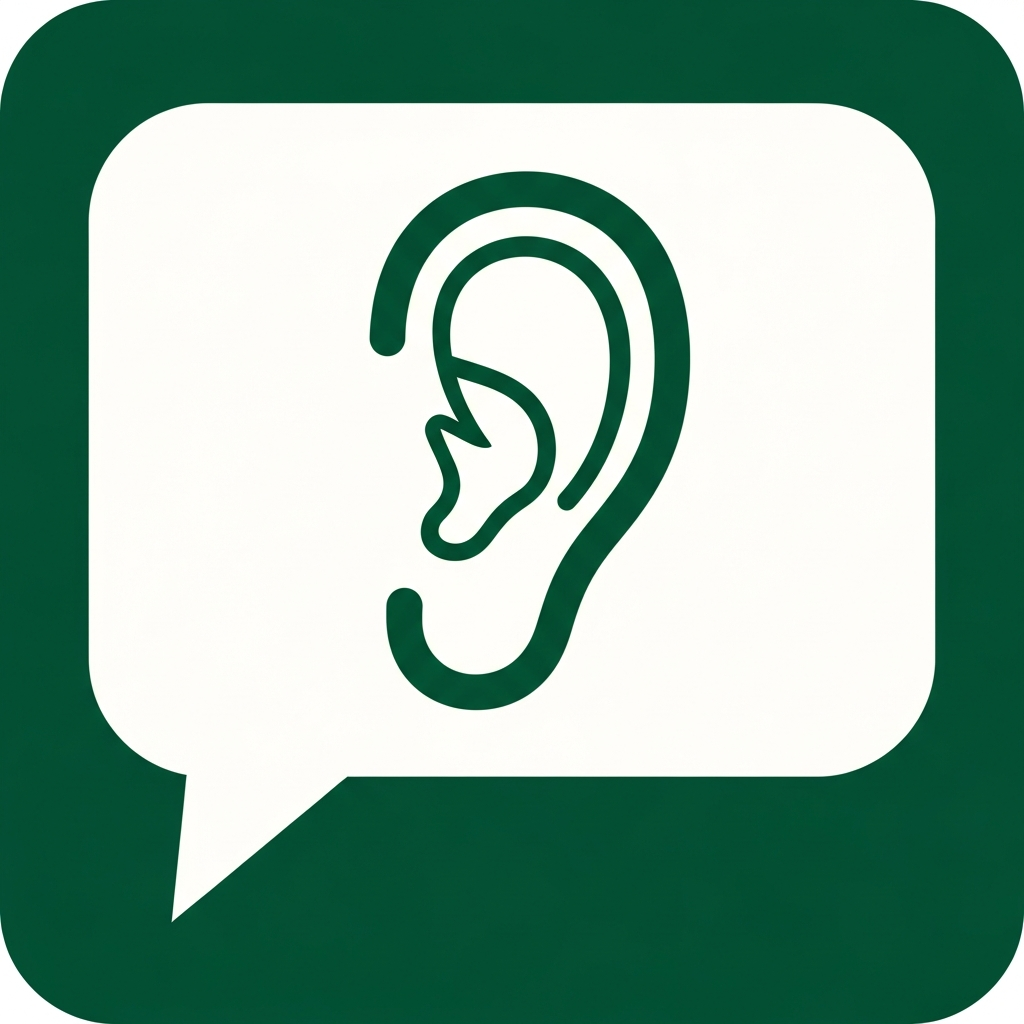
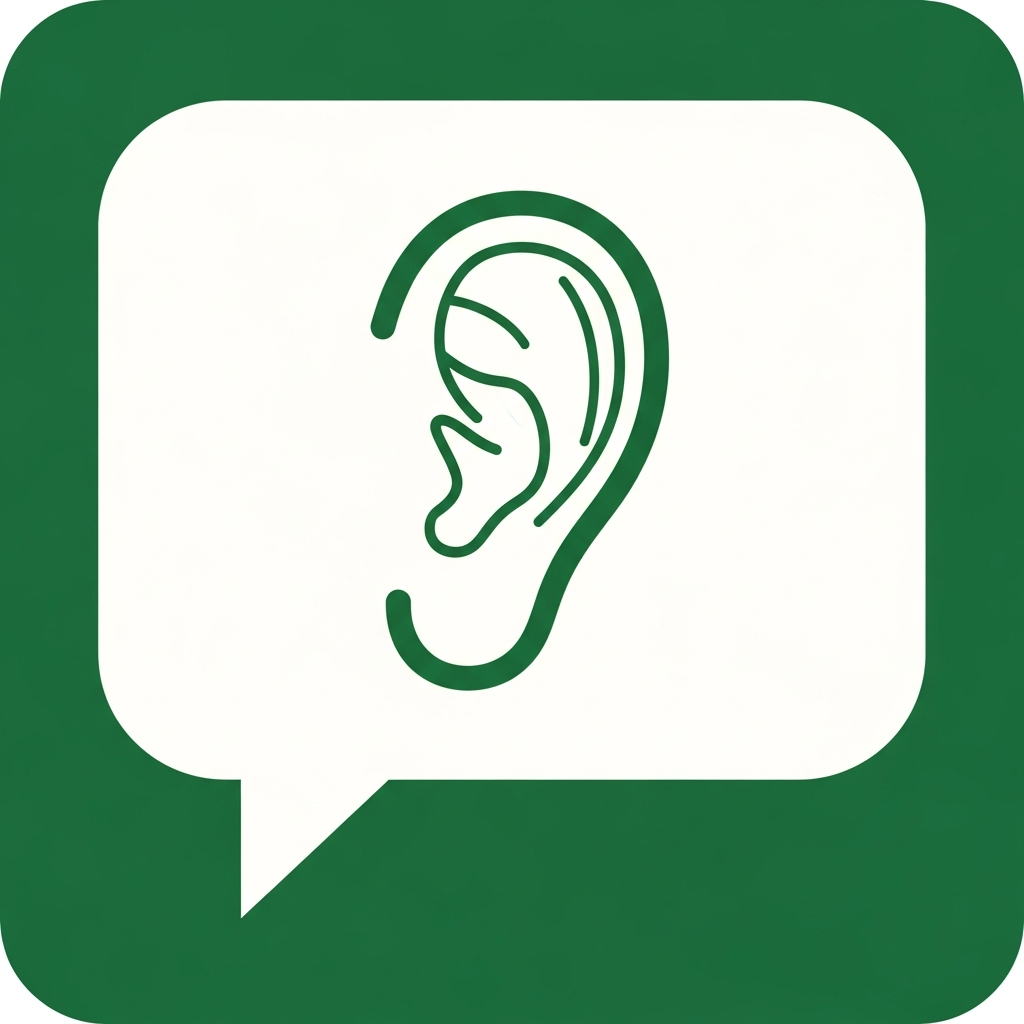
Fix text display issues and improve speech recognition capabilities
Update app version to 1.0.3 to clear cache, explicitly load vector icon fonts in _layout.tsx, and add microphone permission request in index.tsx. Regenerate icon.png and splash-icon.png.

Replit-Commit-Author: Agent
Replit-Commit-Session-Id: b7ebbd82-d3a0-4386-90e5-635705c79ef3
Replit-Commit-Checkpoint-Type: full_checkpoint
Replit-Commit-Event-Id: c5cab796-6235-47fc-92f0-f77254a9b34c
Replit-Commit-Screenshot-Url: https://storage.googleapis.com/screenshot-production-us-central1/3533e259-076b-466e-9c04-d0484e5416cf/b7ebbd82-d3a0-4386-90e5-635705c79ef3/P4KiH9x
Replit-Helium-Checkpoint-Created: true

diff --git a/artifacts/caption-bridge/app/_layout.tsx b/artifacts/caption-bridge/app/_layout.tsx
@@ -10,6 +10,11 @@ import {
   Inter_700Bold,
   useFonts,
 } from "@expo-google-fonts/inter";
+// ベクターアイコンのフォントファイルを明示的に読み込む
+// これを忘れると ⊠（豆腐文字）が表示される
+import Feather from "@expo/vector-icons/Feather";
+import Ionicons from "@expo/vector-icons/Ionicons";
+import MaterialCommunityIcons from "@expo/vector-icons/MaterialCommunityIcons";
 import { QueryClient, QueryClientProvider } from "@tanstack/react-query";
 import { Stack } from "expo-router";
 import * as SplashScreen from "expo-splash-screen";
@@ -28,11 +33,15 @@ SplashScreen.preventAutoHideAsync();
 const queryClient = new QueryClient();
 
 export default function RootLayout() {
-  // Google Fontsの読み込み（Inter書体）
+  // Google Fonts（Inter書体）とベクターアイコンフォントを同時に読み込む
+  // @expo/vector-icons の各フォントファイルを .font プロパティで指定する
   const [fontsLoaded, fontError] = useFonts({
-    Inter_400Regular,   // 通常テキスト
-    Inter_600SemiBold,  // 強調テキスト
-    Inter_700Bold,      // タイトル・太字テキスト
+    Inter_400Regular,
+    Inter_600SemiBold,
+    Inter_700Bold,
+    ...Ionicons.font,                // Ioniconsアイコンフォント
+    ...Feather.font,                 // Featherアイコンフォント
+    ...MaterialCommunityIcons.font,  // MaterialCommunityIconsフォント
   });
 
   // フォント読み込み完了後にスプラッシュ画面を隠す

diff --git a/artifacts/caption-bridge/app/index.tsx b/artifacts/caption-bridge/app/index.tsx
@@ -9,6 +9,9 @@ import { Feather, Ionicons, MaterialCommunityIcons } from "@expo/vector-icons";
 import * as Clipboard from "expo-clipboard";
 import * as Haptics from "expo-haptics";
 import { router } from "expo-router";
+// Androidのネイティブマイク権限（RECORD_AUDIO）を先にリクエストするために使用する
+// WebViewのWeb Speech APIはこの権限が必要
+import { Audio } from "expo-av";
 import React, { useCallback, useEffect, useRef, useState } from "react";
 import {
   Animated,
@@ -179,6 +182,22 @@ export default function MainScreen() {
       setError(null);
       setInterimText("");
       setStatusMessage("認識中...");
+
+      // AndroidのOSレベルのマイク権限（RECORD_AUDIO）を先にリクエストする
+      // これをしないとWebViewのWeb Speech APIが "not-allowed" エラーになる
+      if (Platform.OS !== "web") {
+        try {
+          const { status } = await Audio.requestPermissionsAsync();
+          if (status !== "granted") {
+            setError("⚙ 設定 → アプリ → Expo Go → 権限 → マイク → 許可");
+            setStatusMessage("マイクボタンを押して開始");
+            return;
+          }
+        } catch {
+          // 権限確認に失敗してもとりあえず続ける
+        }
+      }
+
       speechRef.current?.startListening();
     }
   }, [isListening]);
